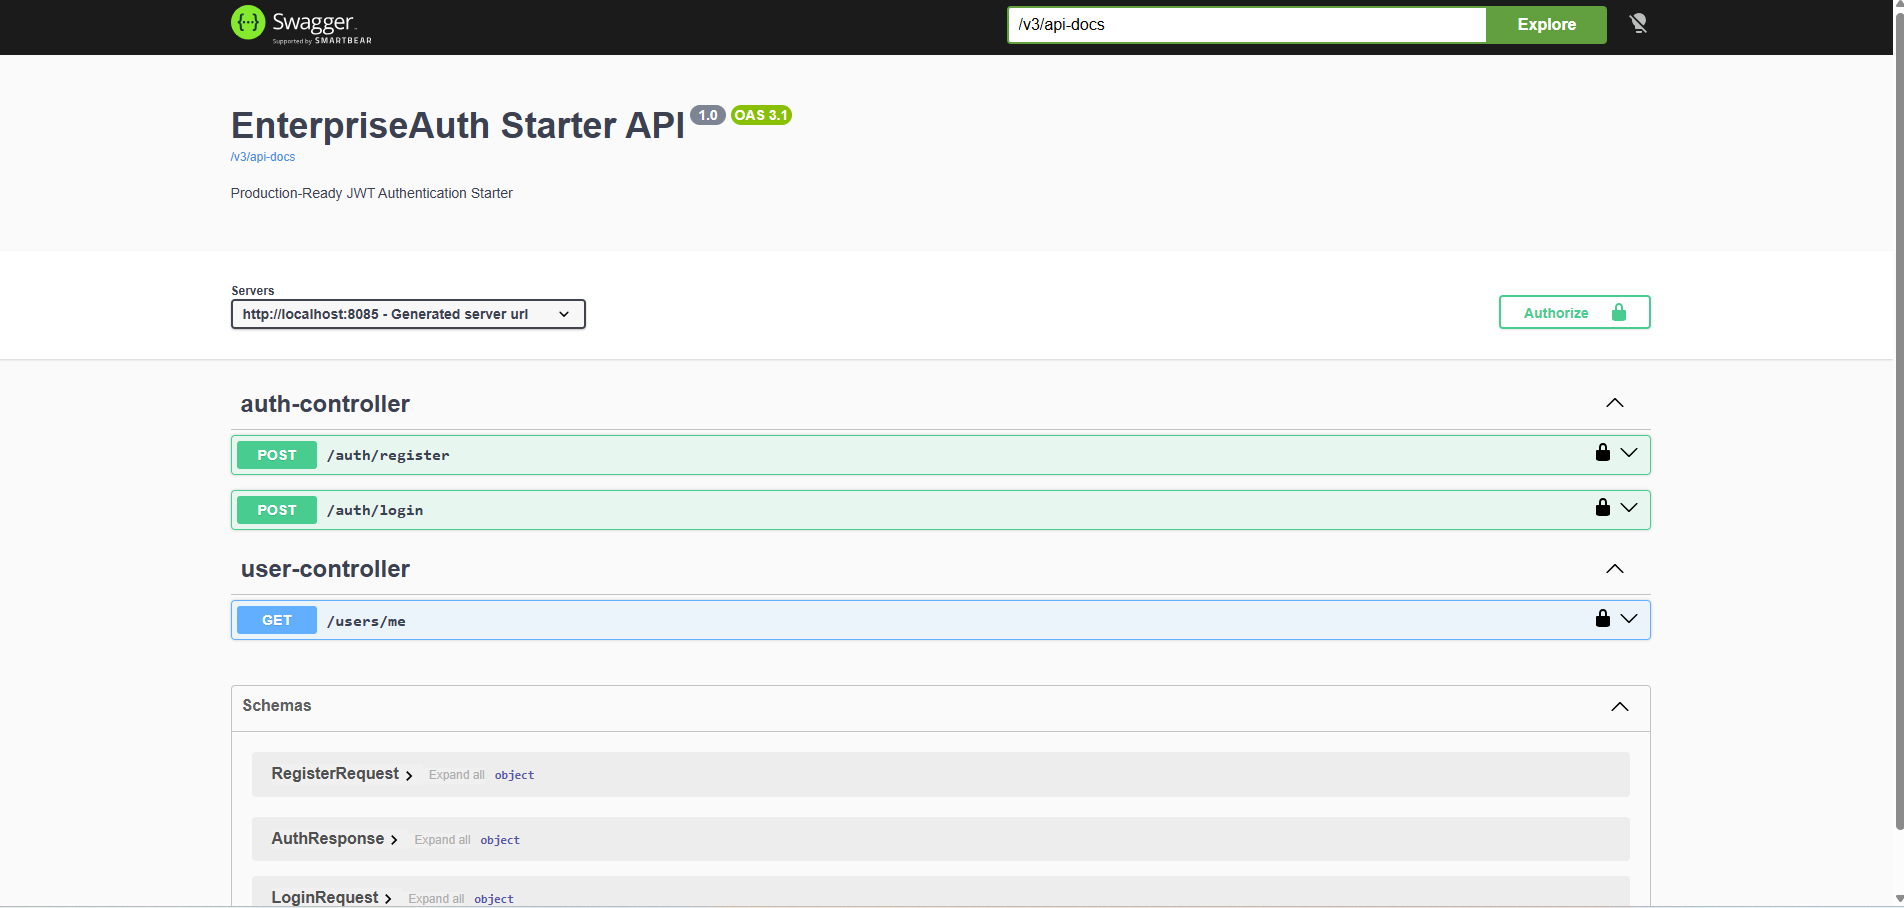
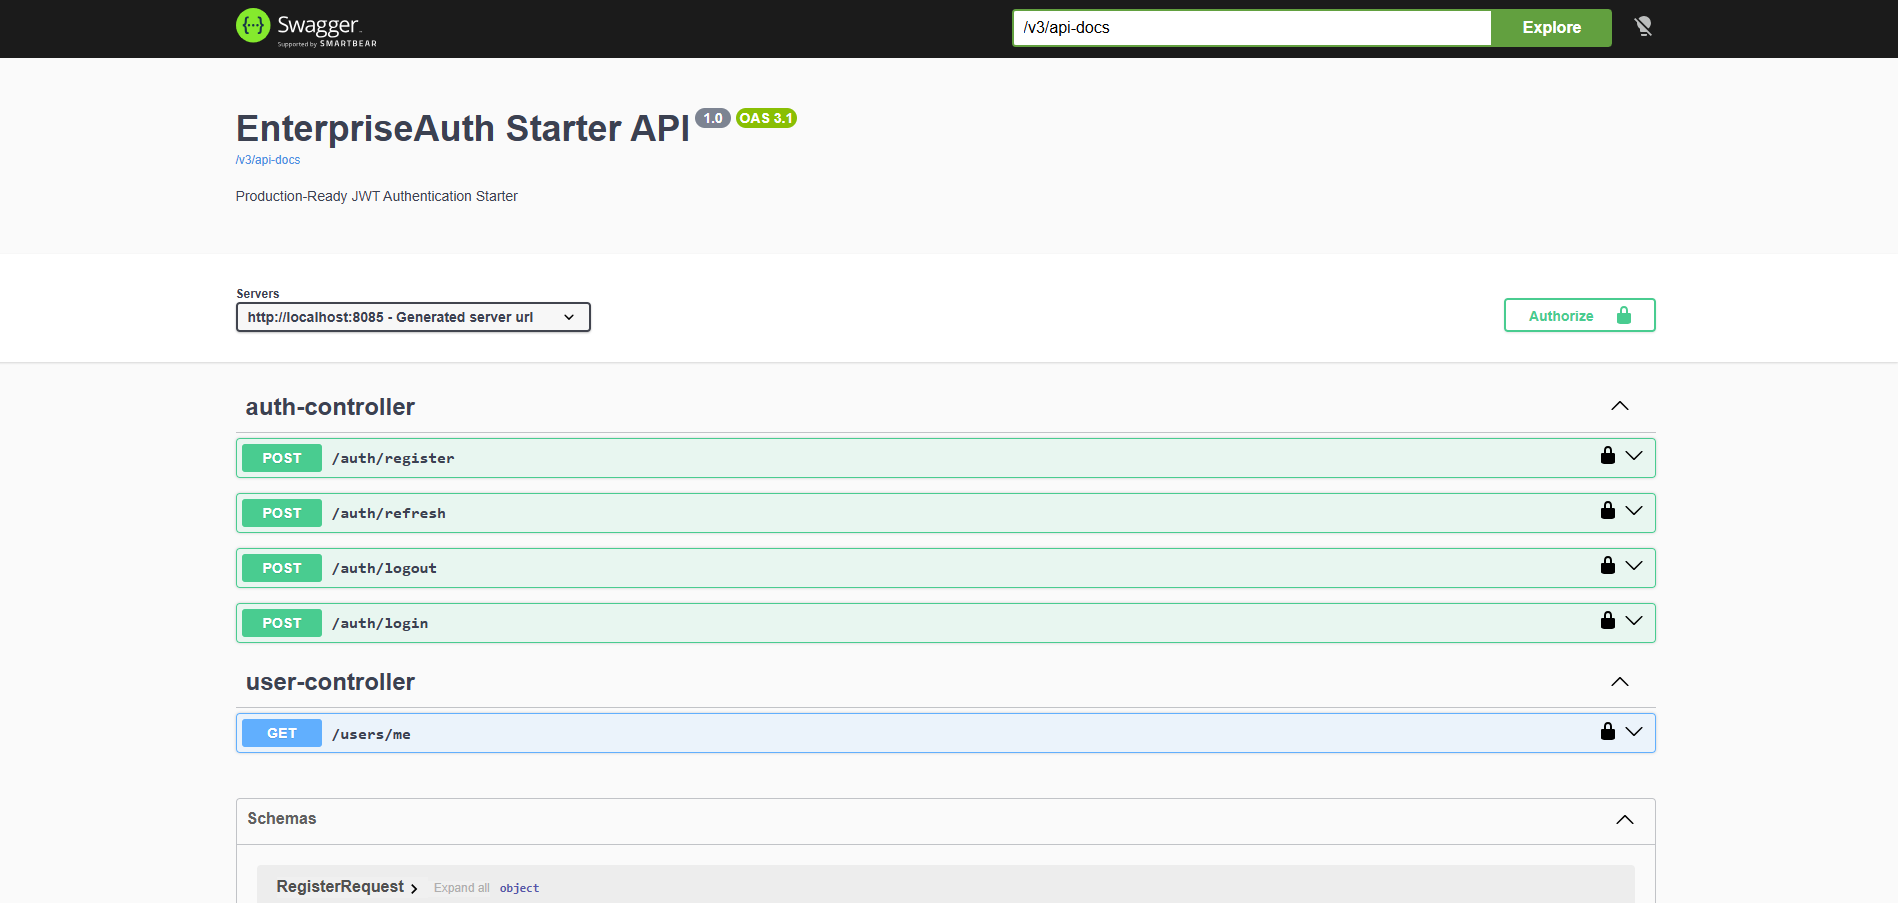
Implemented refresh token authentication and logout flow

diff --git a/src/main/java/com/enterpriseauthstarter/auth/service/AuthService.java b/src/main/java/com/enterpriseauthstarter/auth/service/AuthService.java
@@ -1,8 +1,10 @@
 package com.enterpriseauthstarter.auth.service;
 
 import com.enterpriseauthstarter.auth.dto.*;
+import com.enterpriseauthstarter.auth.entity.RefreshToken;
 import com.enterpriseauthstarter.auth.entity.Role;
 import com.enterpriseauthstarter.auth.entity.User;
+import com.enterpriseauthstarter.auth.repository.RefreshTokenRepository;
 import com.enterpriseauthstarter.auth.repository.UserRepository;
 import com.enterpriseauthstarter.auth.security.JwtUtil;
 import com.enterpriseauthstarter.exception.BadRequestException;
@@ -17,6 +19,8 @@ public class AuthService {
     private final UserRepository userRepository;
     private final PasswordEncoder passwordEncoder;
     private final JwtUtil jwtUtil;
+    private final RefreshTokenService refreshTokenService;
+    private final RefreshTokenRepository refreshTokenRepository;
 
     public AuthResponse register(RegisterRequest request) {
 
@@ -33,26 +37,57 @@ public class AuthService {
 
         userRepository.save(user);
 
-        String token = jwtUtil.generateToken(user.getEmail());
+        RefreshToken refreshToken =
+                refreshTokenService.createRefreshToken(user);
 
         return AuthResponse.builder()
-                .token(token)
+                .accessToken(jwtUtil.generateToken(user.getEmail()))
+                .refreshToken(refreshToken.getToken())
                 .build();
     }
 
     public AuthResponse login(LoginRequest request) {
 
         User user = userRepository.findByEmail(request.getEmail())
-                .orElseThrow(() -> new BadRequestException("Invalid credentials"));
+                .orElseThrow(() ->
+                        new BadRequestException("Invalid credentials"));
 
-        if (!passwordEncoder.matches(request.getPassword(), user.getPassword())) {
+        if (!passwordEncoder.matches(
+                request.getPassword(),
+                user.getPassword()
+        )) {
+
             throw new BadRequestException("Invalid credentials");
         }
 
-        String token = jwtUtil.generateToken(user.getEmail());
+        RefreshToken refreshToken =
+                refreshTokenService.createRefreshToken(user);
 
         return AuthResponse.builder()
-                .token(token)
+                .accessToken(jwtUtil.generateToken(user.getEmail()))
+                .refreshToken(refreshToken.getToken())
+                .build();
+    }
+
+    public AuthResponse refreshToken(
+            RefreshTokenRequest request
+    ) {
+
+        RefreshToken refreshToken = refreshTokenRepository
+                .findByToken(request.getRefreshToken())
+                .orElseThrow(() ->
+                        new BadRequestException("Invalid refresh token"));
+
+        if (!refreshTokenService.isValid(refreshToken)) {
+            throw new BadRequestException("Refresh token expired");
+        }
+
+        String accessToken =
+                jwtUtil.generateToken(refreshToken.getUser().getEmail());
+
+        return AuthResponse.builder()
+                .accessToken(accessToken)
+                .refreshToken(refreshToken.getToken())
                 .build();
     }
 }

diff --git a/src/main/java/com/enterpriseauthstarter/auth/controller/AuthController.java b/src/main/java/com/enterpriseauthstarter/auth/controller/AuthController.java
@@ -1,10 +1,14 @@
 package com.enterpriseauthstarter.auth.controller;
 
 import com.enterpriseauthstarter.auth.dto.*;
+import com.enterpriseauthstarter.auth.entity.RefreshToken;
+import com.enterpriseauthstarter.auth.repository.RefreshTokenRepository;
 import com.enterpriseauthstarter.auth.service.AuthService;
+import com.enterpriseauthstarter.auth.service.RefreshTokenService;
+import com.enterpriseauthstarter.exception.BadRequestException;
+import jakarta.validation.Valid;
 import lombok.RequiredArgsConstructor;
 import org.springframework.web.bind.annotation.*;
-import jakarta.validation.Valid;
 
 @RestController
 @RequestMapping("/auth")
@@ -12,6 +16,10 @@ import jakarta.validation.Valid;
 public class AuthController {
 
     private final AuthService authService;
+
+    private final RefreshTokenService refreshTokenService;
+
+    private final RefreshTokenRepository refreshTokenRepository;
 
     @PostMapping("/register")
     public AuthResponse register(
@@ -25,5 +33,27 @@ public class AuthController {
             @Valid @RequestBody LoginRequest request
     ) {
         return authService.login(request);
+    }
+
+    @PostMapping("/refresh")
+    public AuthResponse refreshToken(
+            @RequestBody RefreshTokenRequest request
+    ) {
+        return authService.refreshToken(request);
+    }
+
+    @PostMapping("/logout")
+    public String logout(
+            @RequestBody RefreshTokenRequest request
+    ) {
+
+        RefreshToken refreshToken = refreshTokenRepository
+                .findByToken(request.getRefreshToken())
+                .orElseThrow(() ->
+                        new BadRequestException("Invalid refresh token"));
+
+        refreshTokenService.revokeToken(refreshToken);
+
+        return "Logged out successfully";
     }
 }

diff --git a/src/main/java/com/enterpriseauthstarter/auth/service/RefreshTokenService.java b/src/main/java/com/enterpriseauthstarter/auth/service/RefreshTokenService.java
@@ -1,0 +1,46 @@
+package com.enterpriseauthstarter.auth.service;
+
+import com.enterpriseauthstarter.auth.entity.RefreshToken;
+import com.enterpriseauthstarter.auth.entity.User;
+import com.enterpriseauthstarter.auth.repository.RefreshTokenRepository;
+import lombok.RequiredArgsConstructor;
+import org.springframework.stereotype.Service;
+
+import java.time.LocalDateTime;
+import java.util.UUID;
+
+@Service
+@RequiredArgsConstructor
+public class RefreshTokenService {
+
+    private final RefreshTokenRepository refreshTokenRepository;
+
+    public RefreshToken createRefreshToken(User user) {
+
+        refreshTokenRepository.findByUser(user)
+                .ifPresent(existing -> {
+                    existing.setRevoked(true);
+                    refreshTokenRepository.save(existing);
+                });
+
+        RefreshToken refreshToken = RefreshToken.builder()
+                .token(UUID.randomUUID().toString())
+                .user(user)
+                .expiryDate(LocalDateTime.now().plusDays(7))
+                .revoked(false)
+                .build();
+
+        return refreshTokenRepository.save(refreshToken);
+    }
+
+    public boolean isValid(RefreshToken token) {
+
+        return !token.isRevoked()
+                && token.getExpiryDate().isAfter(LocalDateTime.now());
+    }
+
+    public void revokeToken(RefreshToken token) {
+        token.setRevoked(true);
+        refreshTokenRepository.save(token);
+    }
+}

diff --git a/src/main/java/com/enterpriseauthstarter/auth/entity/RefreshToken.java b/src/main/java/com/enterpriseauthstarter/auth/entity/RefreshToken.java
@@ -1,0 +1,33 @@
+package com.enterpriseauthstarter.auth.entity;
+
+import com.enterpriseauthstarter.common.entity.BaseEntity;
+import jakarta.persistence.*;
+import lombok.*;
+
+import java.time.LocalDateTime;
+import java.util.UUID;
+
+@Entity
+@Table(name = "refresh_tokens")
+@Getter
+@Setter
+@NoArgsConstructor
+@AllArgsConstructor
+@Builder
+public class RefreshToken extends BaseEntity {
+
+    @Id
+    @GeneratedValue(strategy = GenerationType.UUID)
+    private UUID id;
+
+    @Column(nullable = false, unique = true, length = 1000)
+    private String token;
+
+    @ManyToOne
+    @JoinColumn(name = "user_id")
+    private User user;
+
+    private LocalDateTime expiryDate;
+
+    private boolean revoked;
+}

diff --git a/src/main/java/com/enterpriseauthstarter/auth/repository/RefreshTokenRepository.java b/src/main/java/com/enterpriseauthstarter/auth/repository/RefreshTokenRepository.java
@@ -1,0 +1,16 @@
+package com.enterpriseauthstarter.auth.repository;
+
+import com.enterpriseauthstarter.auth.entity.RefreshToken;
+import com.enterpriseauthstarter.auth.entity.User;
+import org.springframework.data.jpa.repository.JpaRepository;
+
+import java.util.Optional;
+import java.util.UUID;
+
+public interface RefreshTokenRepository
+        extends JpaRepository<RefreshToken, UUID> {
+
+    Optional<RefreshToken> findByToken(String token);
+
+    Optional<RefreshToken> findByUser(User user);
+}

diff --git a/src/main/java/com/enterpriseauthstarter/auth/dto/AuthResponse.java b/src/main/java/com/enterpriseauthstarter/auth/dto/AuthResponse.java
@@ -9,5 +9,6 @@ import lombok.Data;
 @Builder
 public class AuthResponse {
 
-    private String token;
+    private String accessToken;
+    private String refreshToken;
 }

diff --git a/src/main/java/com/enterpriseauthstarter/auth/dto/RefreshTokenRequest.java b/src/main/java/com/enterpriseauthstarter/auth/dto/RefreshTokenRequest.java
@@ -1,0 +1,9 @@
+package com.enterpriseauthstarter.auth.dto;
+
+import lombok.Data;
+
+@Data
+public class RefreshTokenRequest {
+
+    private String refreshToken;
+}
